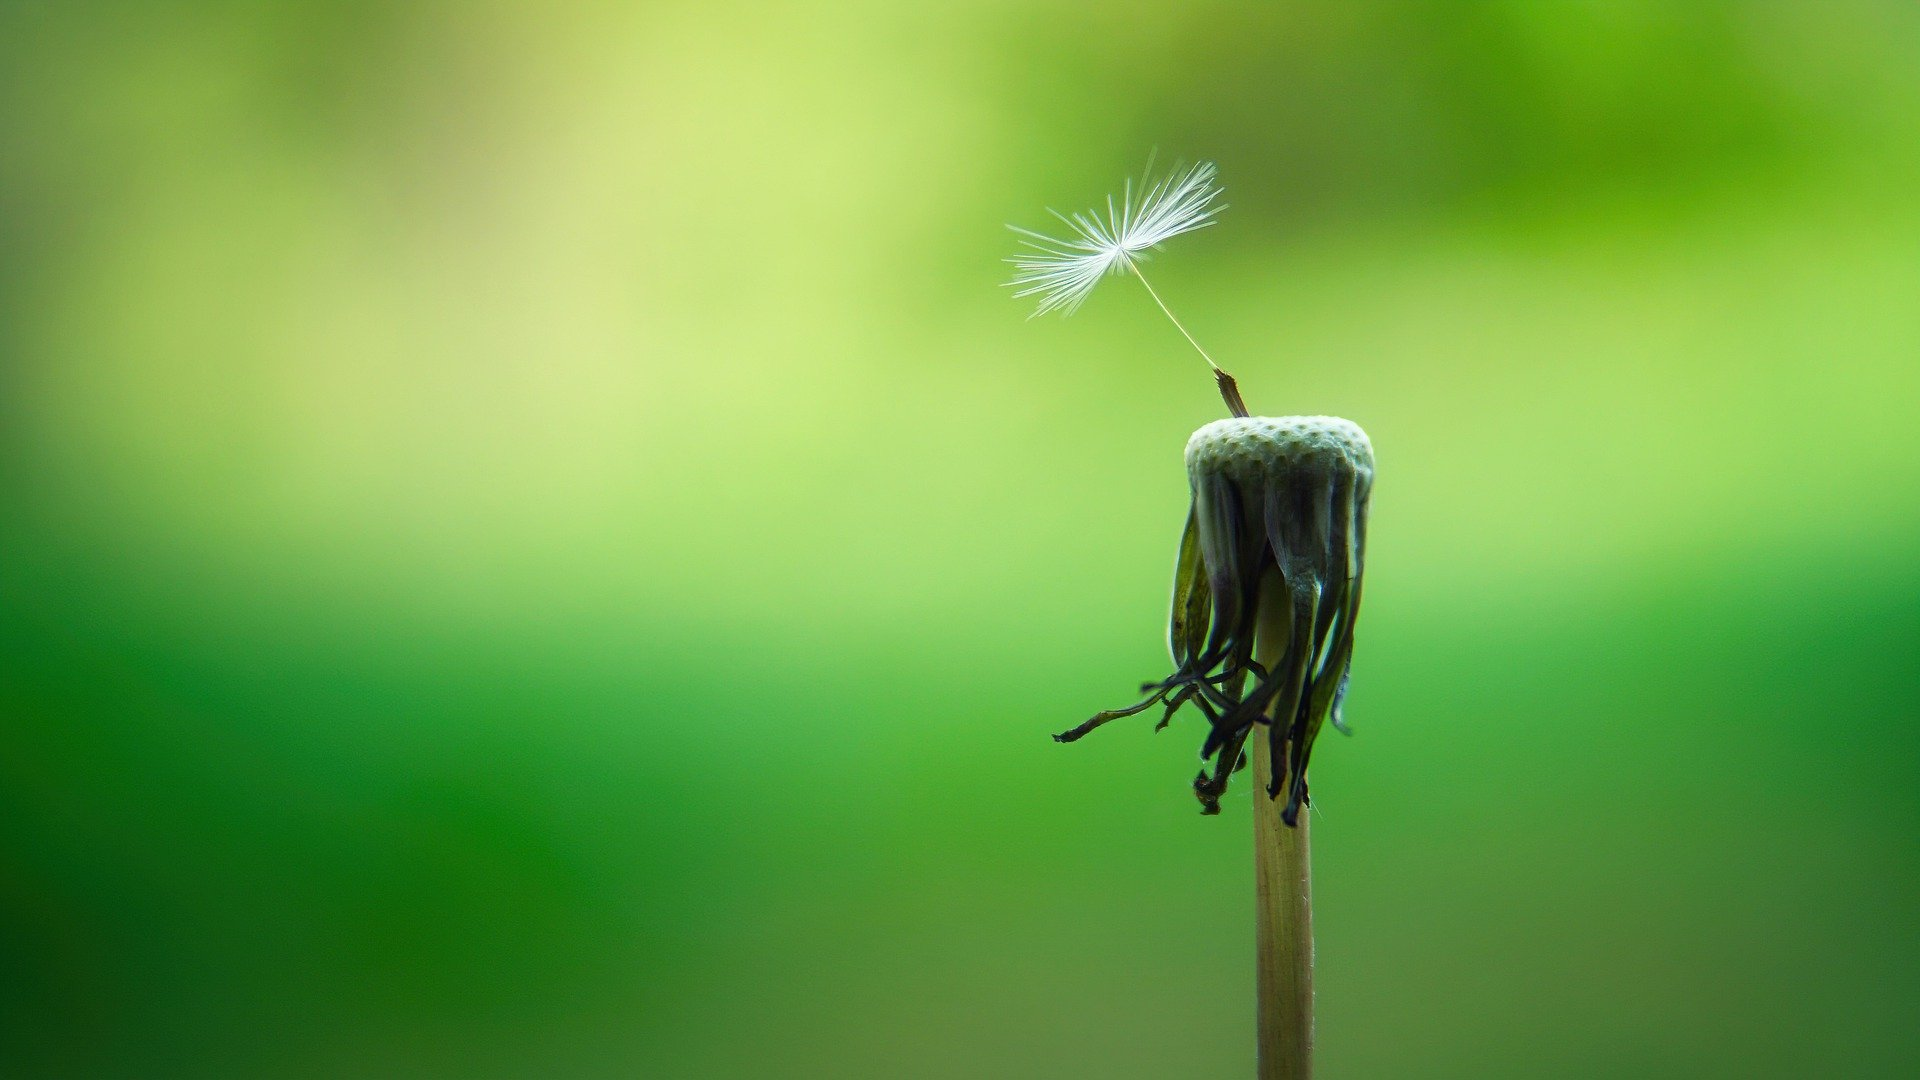
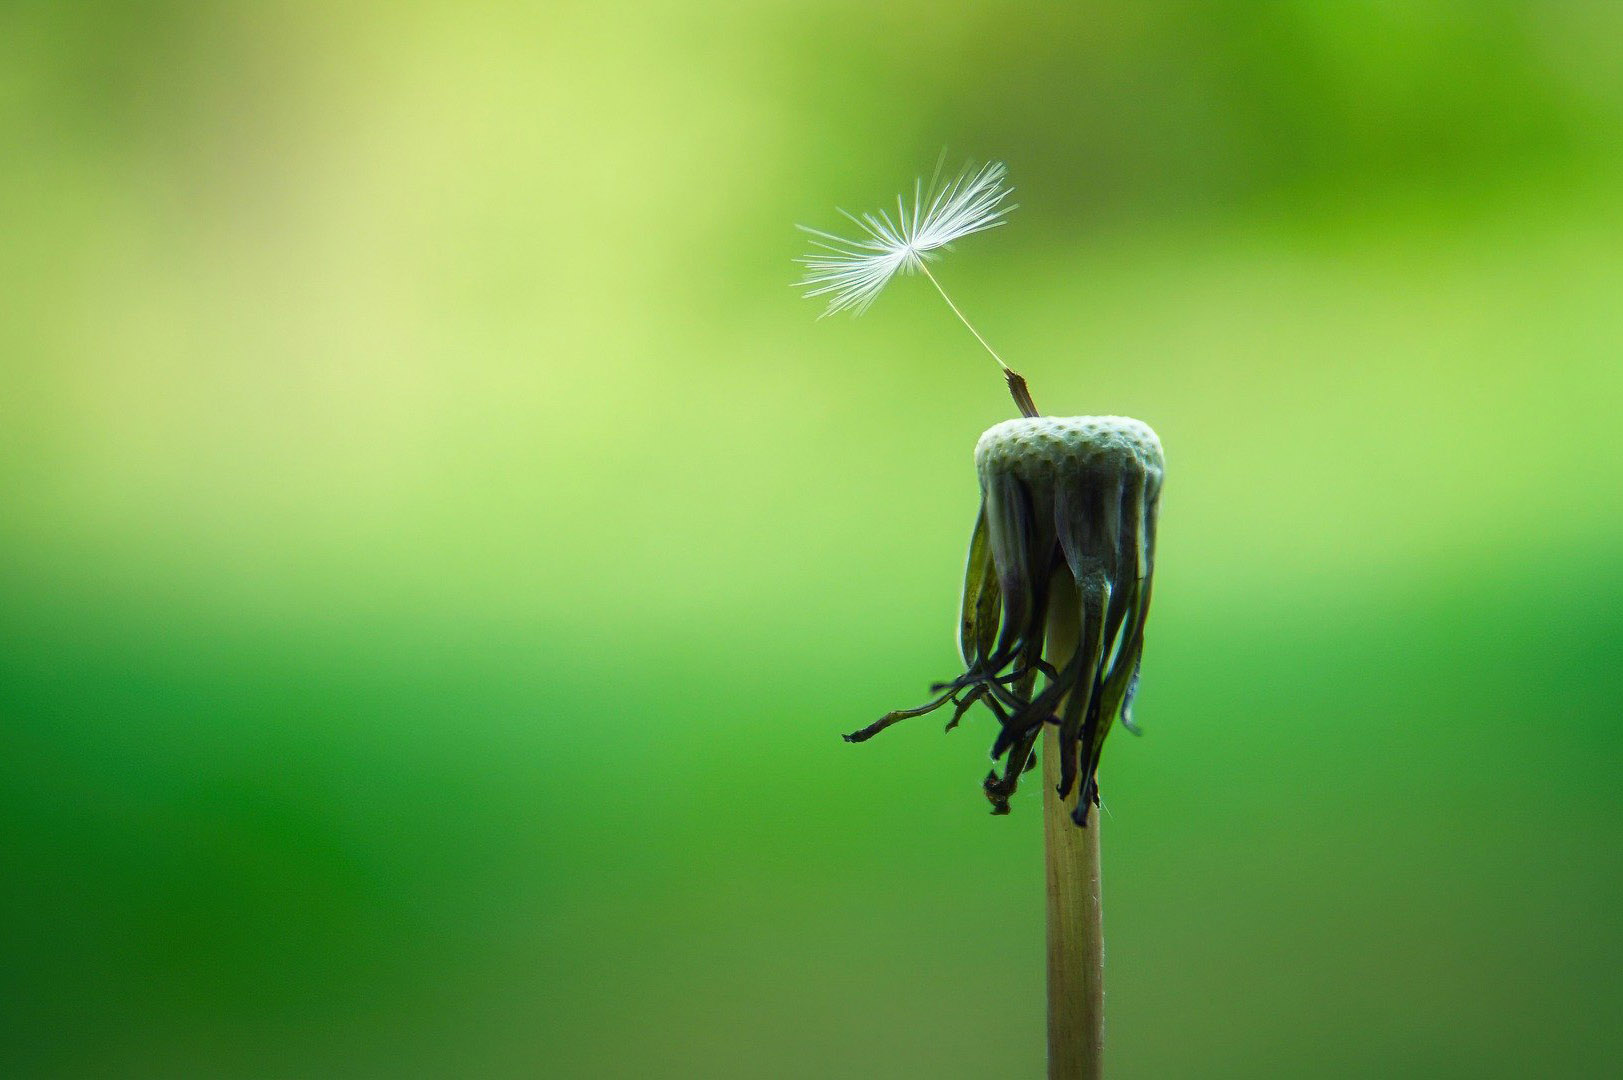
fix: add resized article images

diff --git a/assets/css/style.css b/assets/css/style.css
@@ -417,10 +417,12 @@ video {
 	font-style: italic;
 }
 
+/*move arrow icon away from read more text*/
 .article-summary-box i {
 	padding-left: 0.5rem;
 }
 
+/*read more and arrow link, styles on focus, hover, active*/
 .article-summary-box a:focus, .article-summary-box a:hover, .article-summary-box a:active {
 	color: var(--green);
 }
